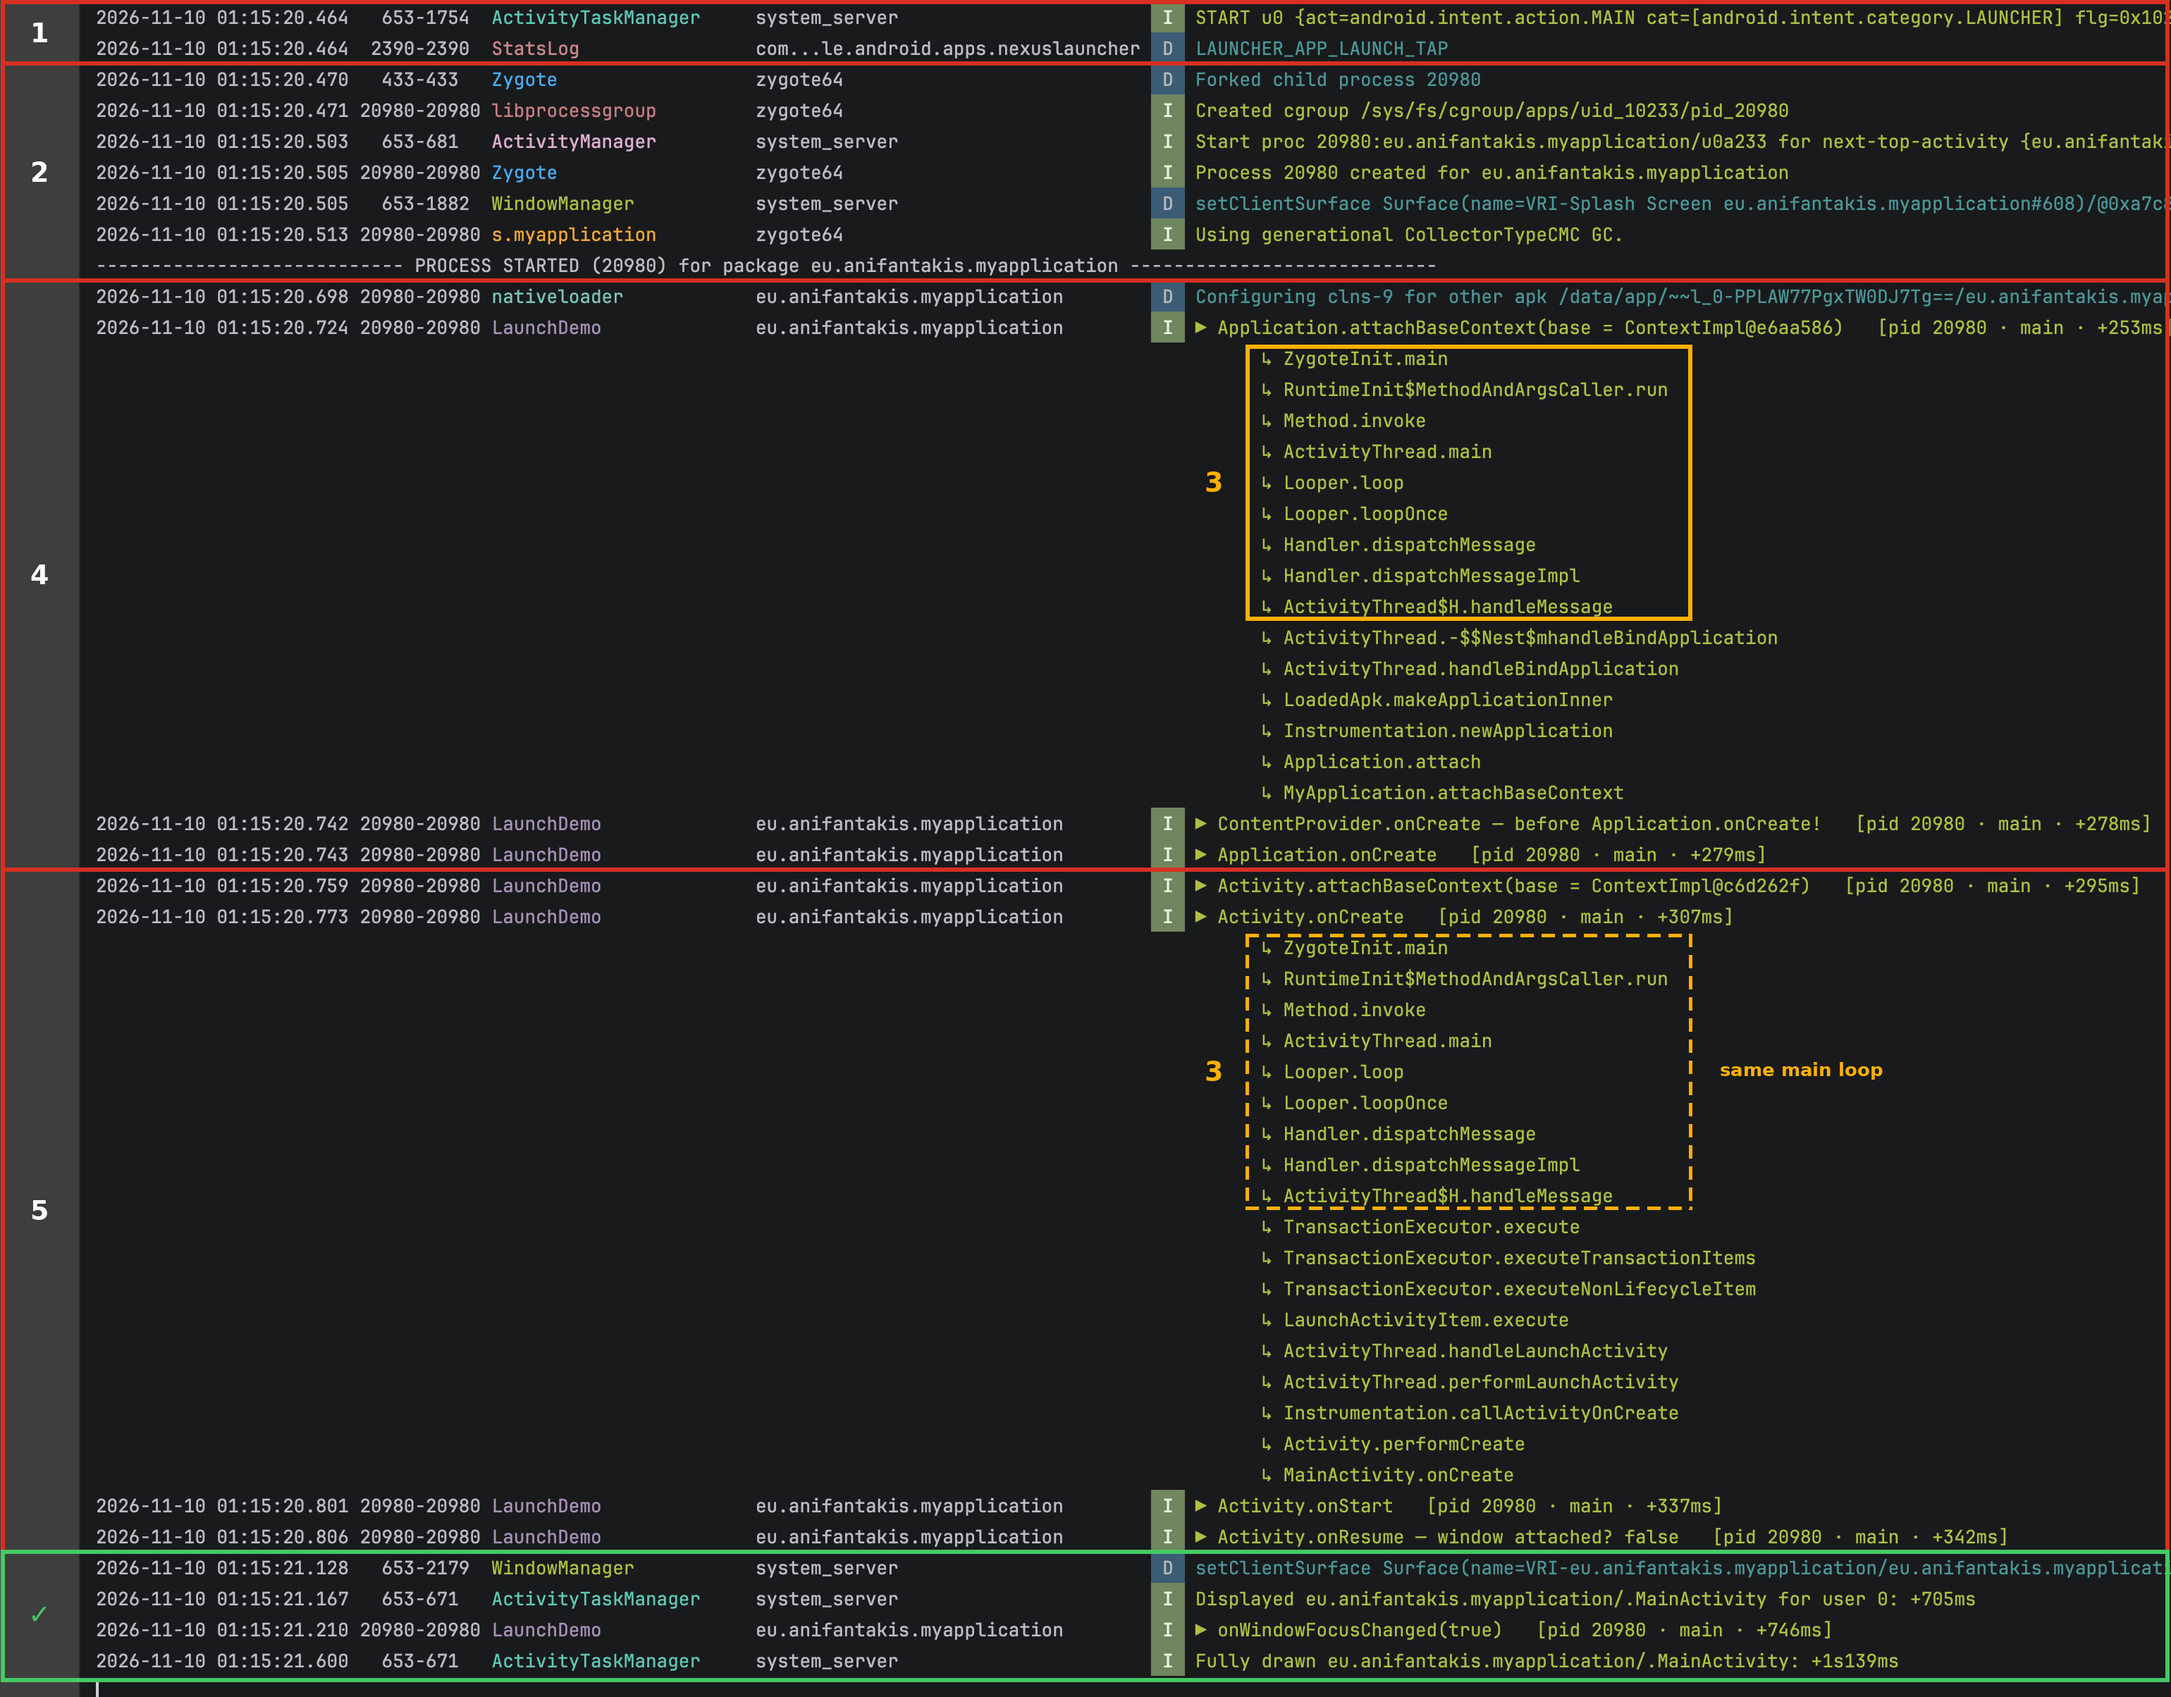
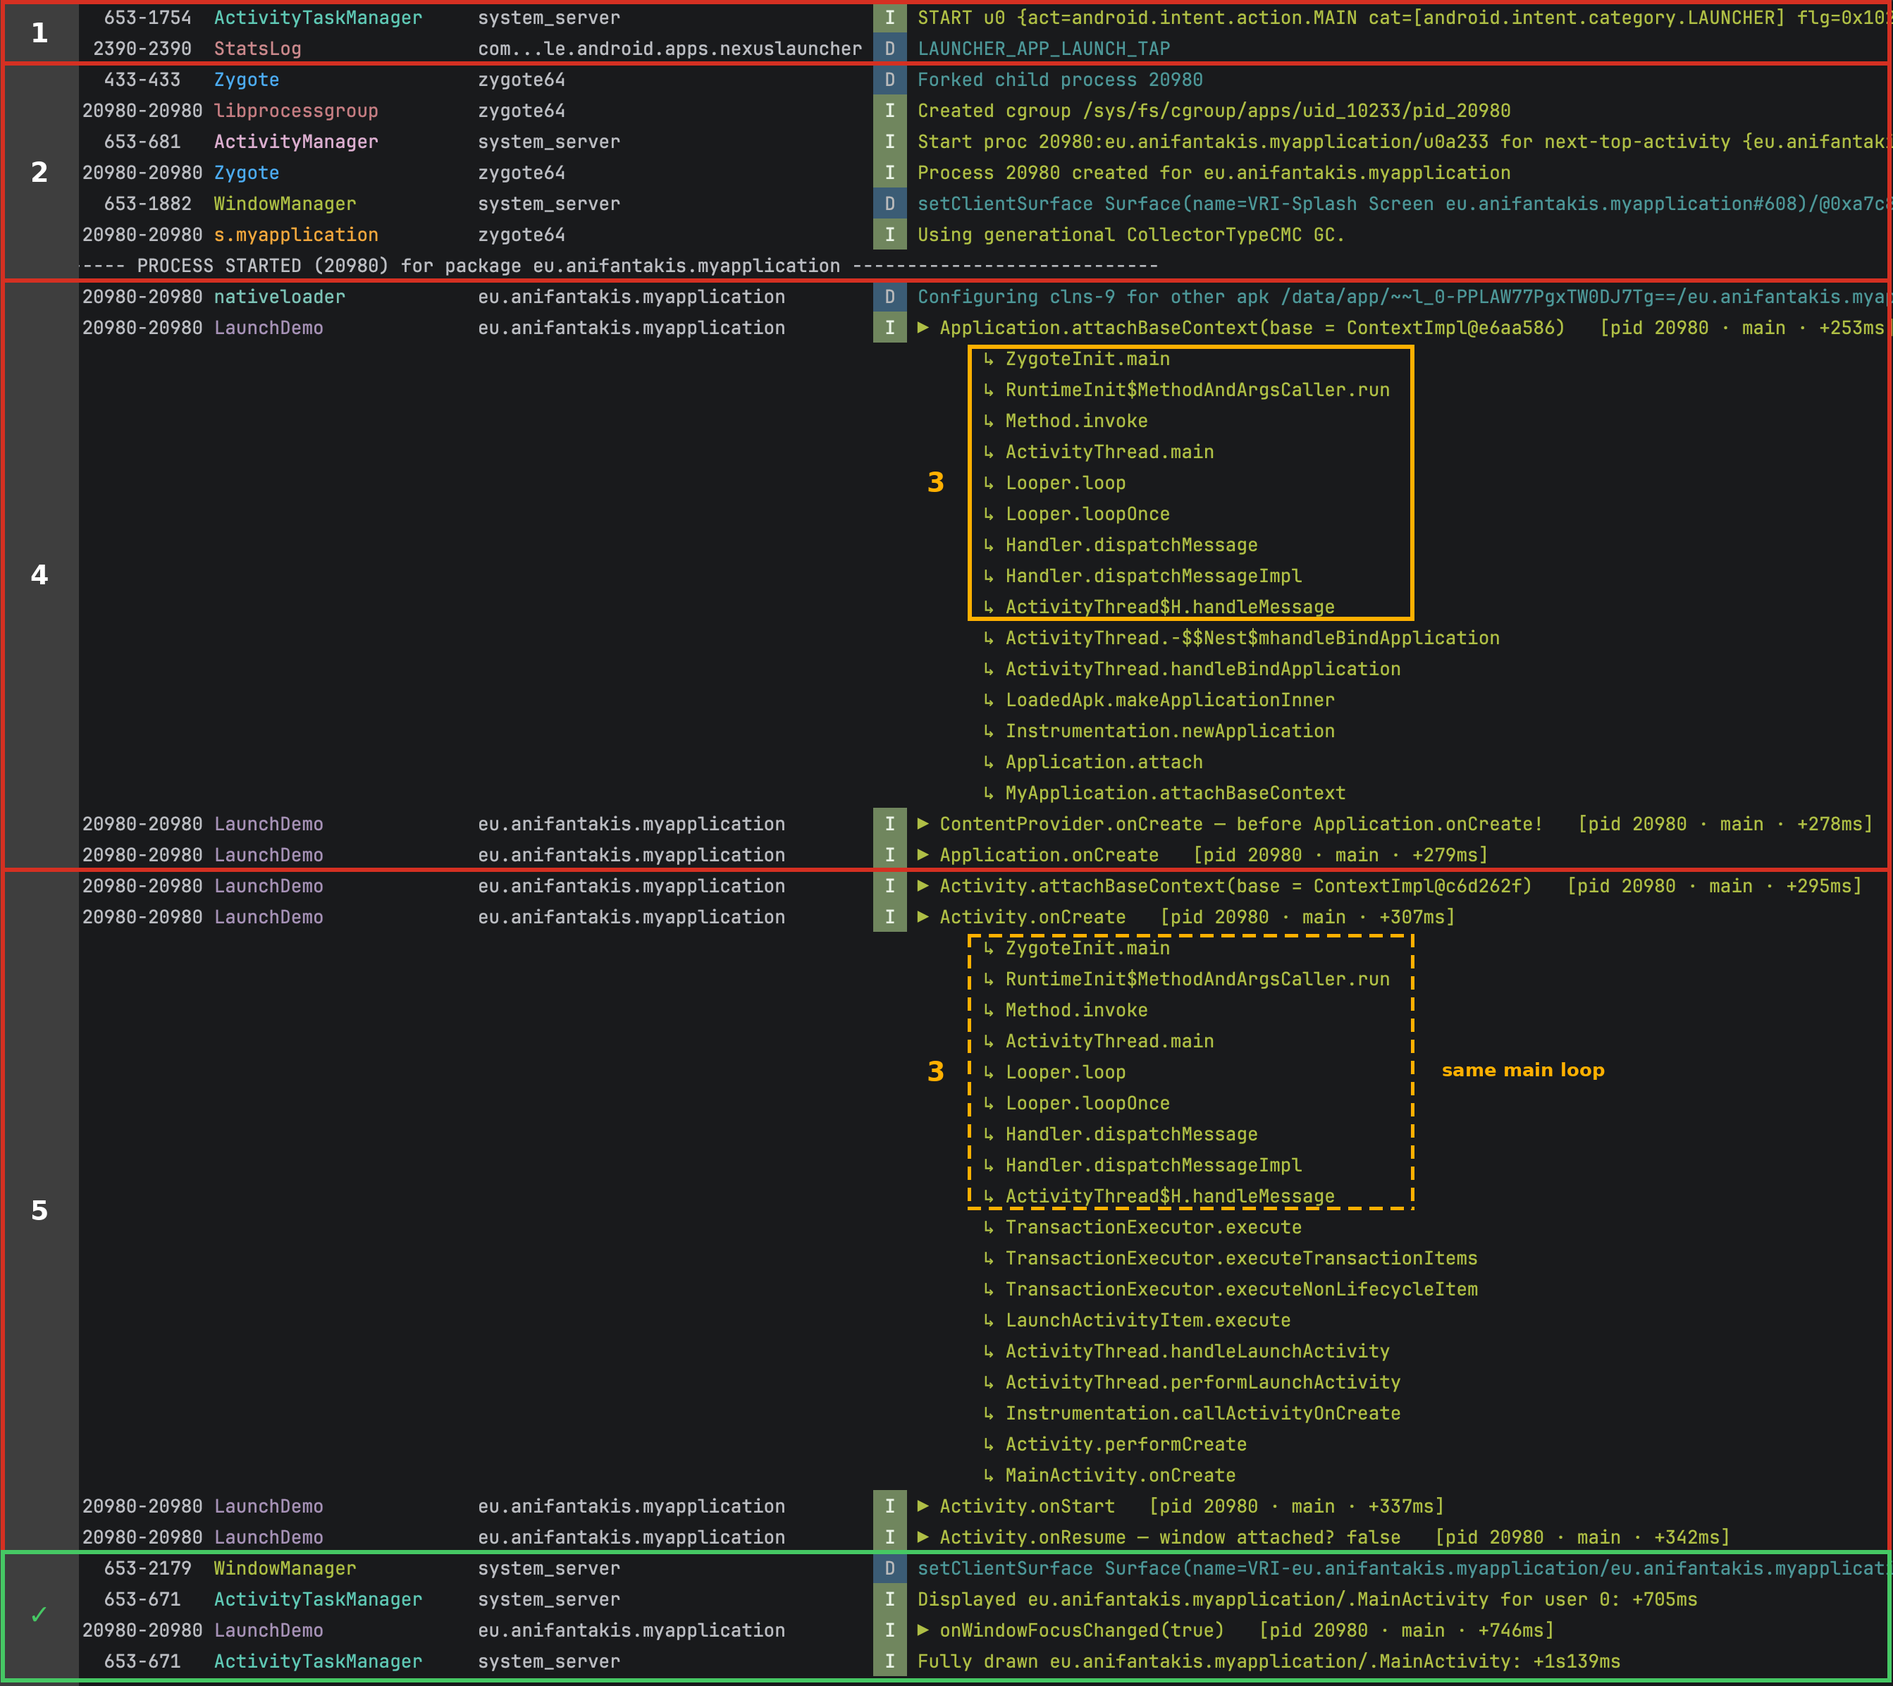
update README.md to clarify Logcat screenshot formatting and stack trace function

Changed region(s): [[0.0, 0.0, 1.0, 1.0], [0.7725, 0.6187, 0.8652, 0.6497]]

diff --git a/README.md b/README.md
@@ -32,6 +32,11 @@ this app's marks.
 
 All screenshots come from one session on an Android 17 (API 37) emulator, with `| tag=:LaunchDemo` added.
 
+> **Note:** We removed Logcat's date-and-time column from the left side of the screenshots, so that more
+> of each line fits on screen and the text stays readable. Each line starts with `PID-TID`, then the tag,
+> the process name, the level and the message. The timings in this README come from the full Logcat output.
+> The app's own `LaunchDemo` lines still show their time as `+…ms`.
+
 | PID | Process |
 |---|---|
 | `653` | `system_server`: ActivityTaskManager (ATMS), ActivityManager (AMS), WindowManager |
@@ -155,11 +160,11 @@ With `showPath = true`, it also writes the call path:
 
 ```kotlin
 private fun callPath(): String = Throwable().stackTrace
-    .filter { f -> keep.any { f.className.startsWith(it) } && !f.className.startsWith(LaunchTrace::class.java.name) }
-    .map { "${it.className.substringAfterLast('.')}.${it.methodName}" }
-    .distinct()
-    .reversed()
-    .joinToString("\n") { "      ↳ $it" }
+  .filter { f -> keep.any { f.className.startsWith(it) } && !f.className.startsWith(LaunchTrace::class.java.name) }
+  .map { "${it.className.substringAfterLast('.')}.${it.methodName}" }
+  .distinct()
+  .reversed()
+  .joinToString("\n") { "      ↳ $it" }
 ```
 
 It takes the current stack trace (without throwing), keeps only the frames in the `keep` list (Zygote,
